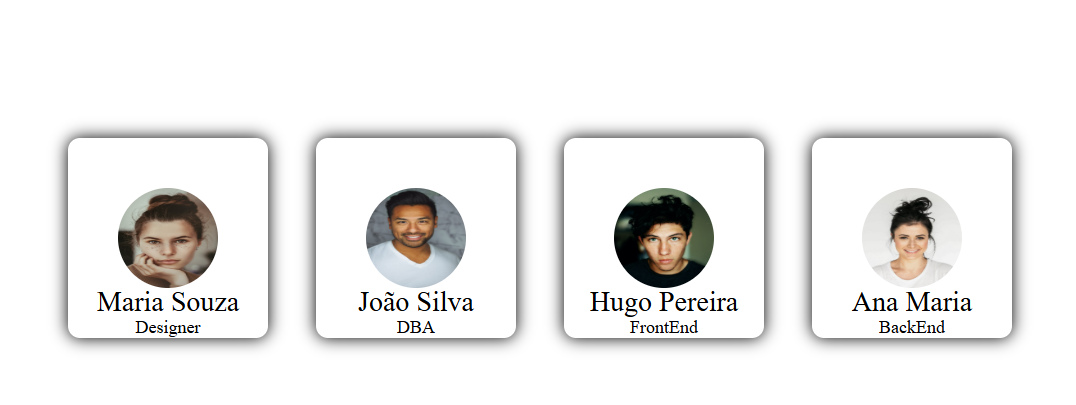
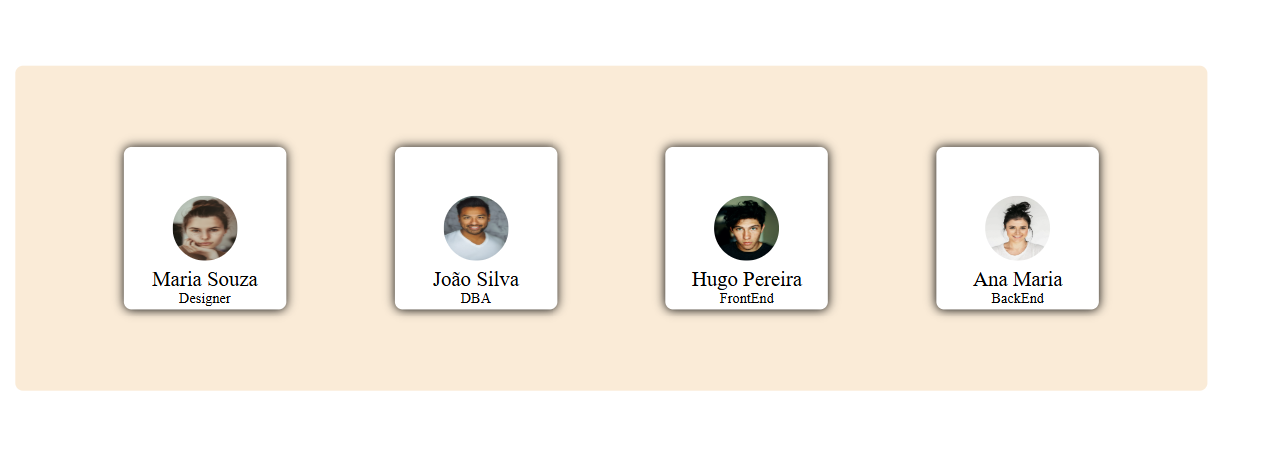
Atualizando README

diff --git a/style.css b/style.css
@@ -17,6 +17,7 @@ body{
     border-radius: 12px;
     /* gap: 48px; */
     height: 500px;
+    background-color: antiquewhite;
 }
 .container-funcionarios div{
     display: flex;
